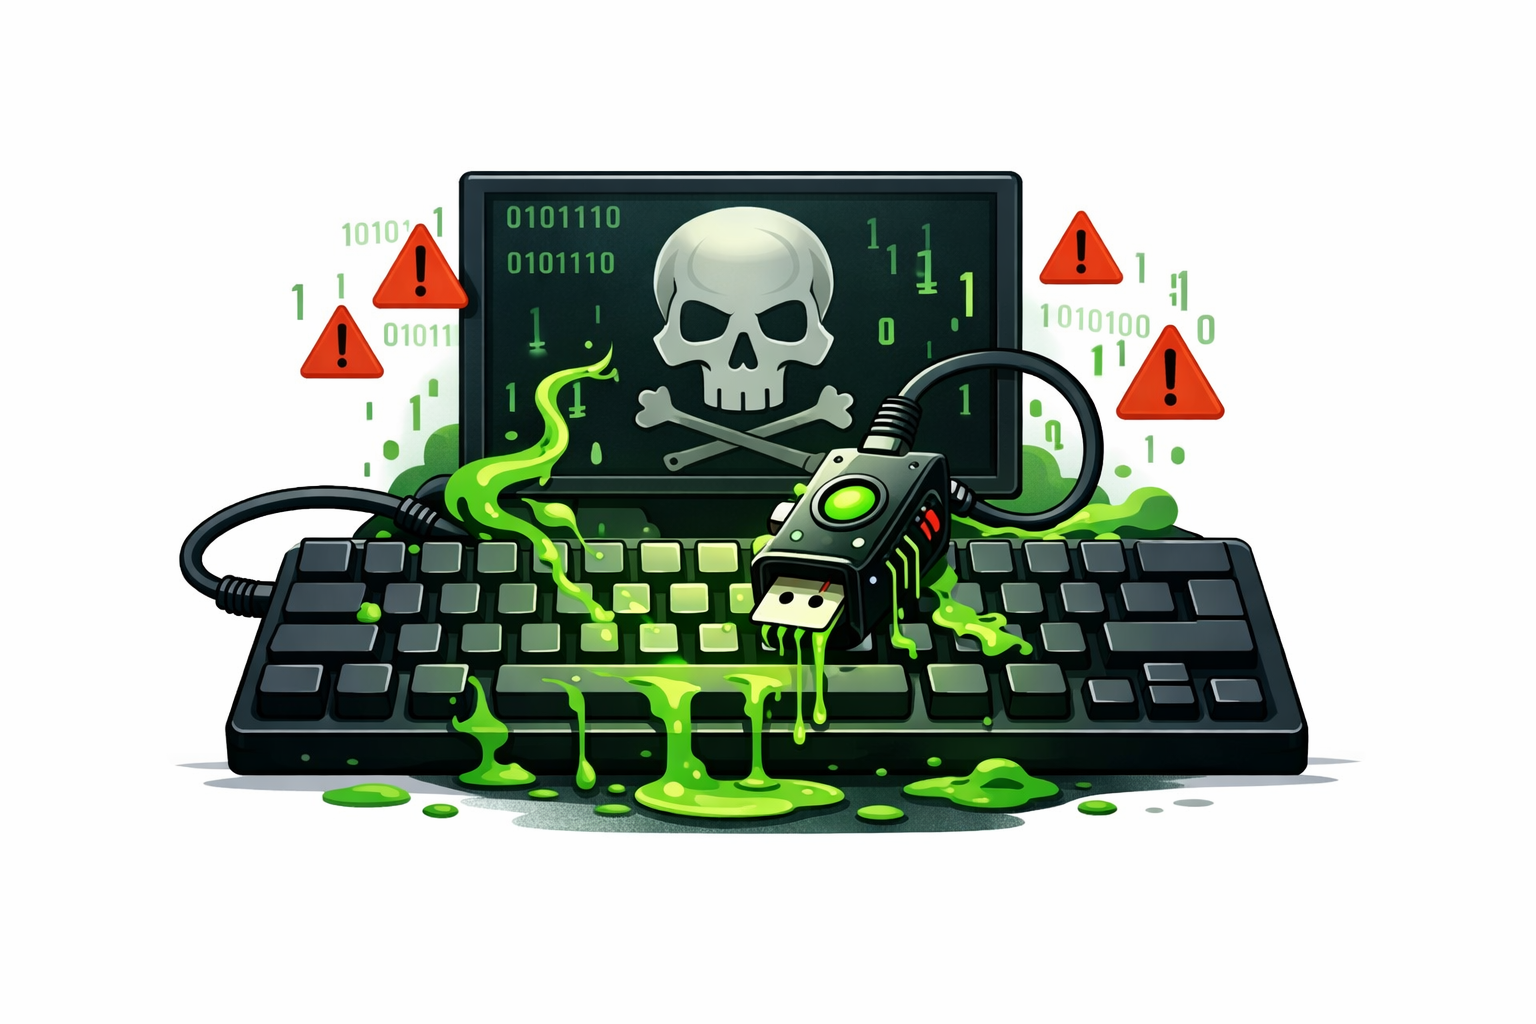
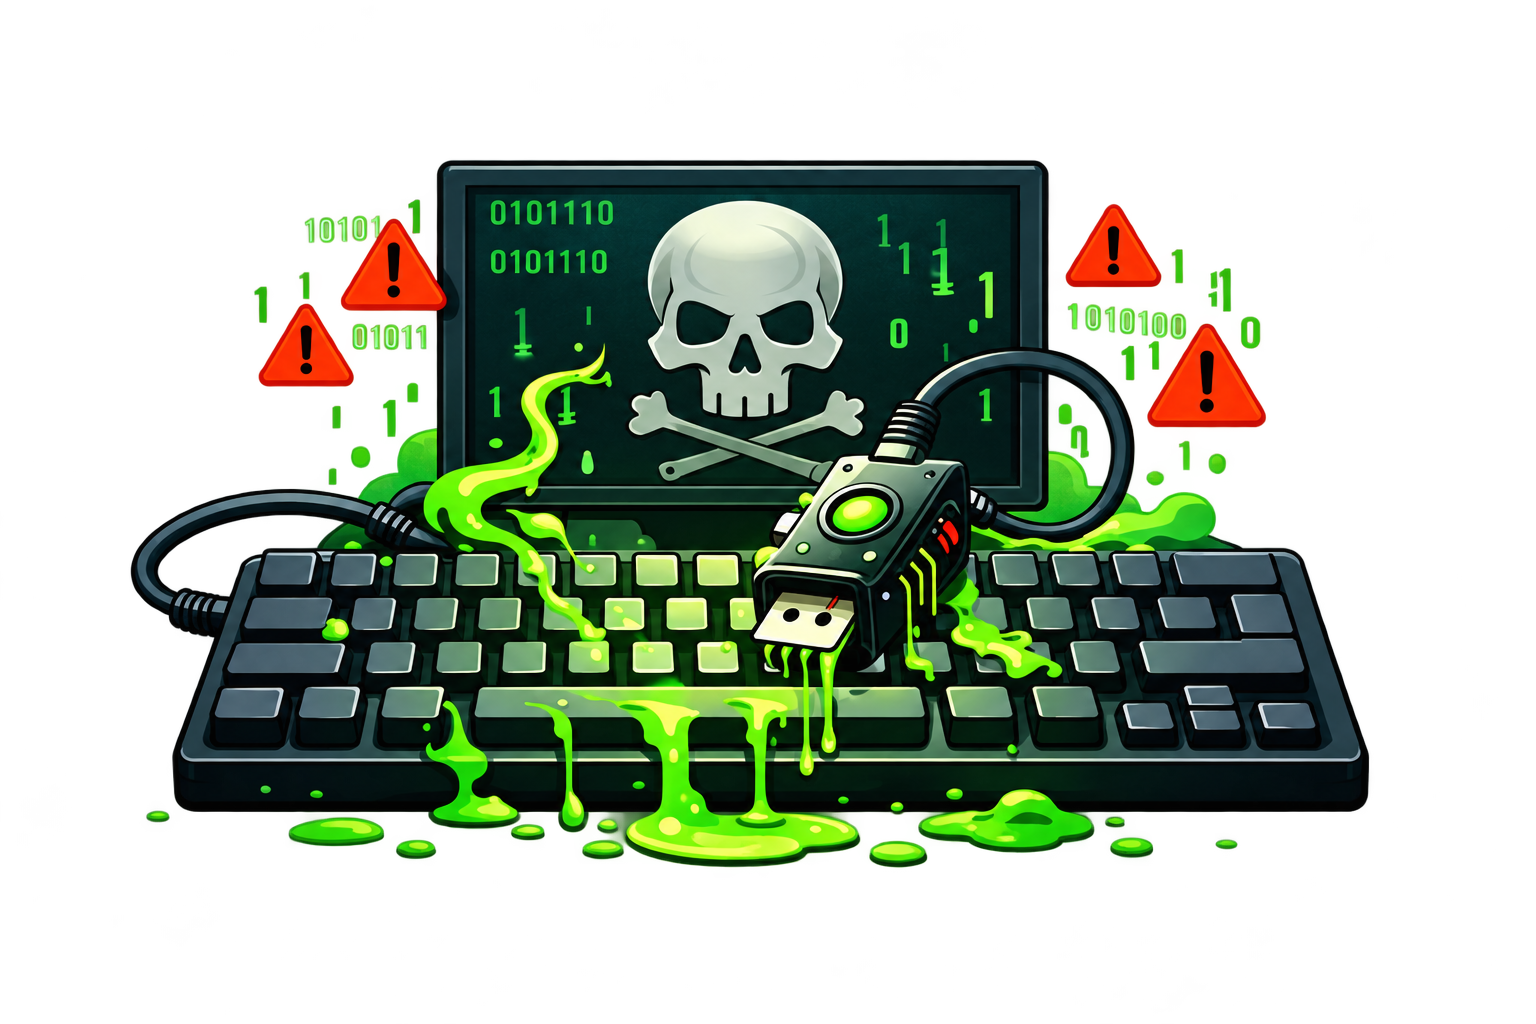
docs: add devcontainer-template project

Changed region(s): [[0.0625, 0.1562, 0.9062, 0.875]]

diff --git a/docs/assets/main.scss b/docs/assets/main.scss
@@ -1,0 +1,52 @@
+---
+---
+
+@import "minima";
+
+.project-separator {
+  margin: $spacing-unit 0;
+  border: 0;
+  border-top: 1px solid $grey-color-light;
+}
+
+.project-illustration {
+  --glow-color: rgba(14, 165, 233, 0.2);
+  position: relative;
+  isolation: isolate;
+}
+
+.project-illustration::before {
+  content: "";
+  position: absolute;
+  inset: -12px 0;
+  z-index: 0;
+  background: radial-gradient(ellipse, var(--glow-color), transparent 70%);
+  pointer-events: none;
+  opacity: 0;
+  transition: opacity 180ms ease;
+}
+
+@media (hover: hover) {
+  .project-illustration:hover::before {
+    opacity: 1;
+  }
+}
+
+@media (prefers-reduced-motion: reduce) {
+  .project-illustration::before {
+    transition: none;
+  }
+}
+
+.project-illustration img {
+  position: relative;
+  z-index: 1;
+}
+
+.project-illustration--obsidian {
+  --glow-color: rgba(124, 58, 237, 0.24);
+}
+
+.project-illustration--keyboard {
+  --glow-color: rgba(101, 163, 13, 0.2);
+}

diff --git a/README.md b/README.md
@@ -31,6 +31,10 @@ The source site lives in [`docs/`](./docs), and the recommended workflow is to u
 - Site source directory: `docs/`.
 - Build output directory: `docs/_site/`.
 - Browser tab icon: `docs/favicon.ico`, with matching source artwork in `docs/assets/favicon.svg`.
+- The Projects page includes Devcontainer Template, Personal Knowledge Management with Obsidian, and Keyboard Poisoning. Project artwork is stored in `docs/assets/`, with color-matched, hover-only glows (purple for Obsidian) defined in `docs/assets/main.scss` on top of Minima. Glow transitions respect reduced-motion preferences.
+- Project images sit above the hover glow without color blending.
+- Project entries are separated by thin, light grey horizontal rules.
+- The Obsidian and Keyboard Poisoning illustrations use transparent PNG backgrounds.
 - Publication status: local development is ready, and the repository now matches the GitHub Pages `/docs` publishing layout.
 
 ## Getting Started

diff --git a/AGENTS.md b/AGENTS.md
@@ -16,8 +16,12 @@ Keep in mind that:
 - The generated code must be minimal, avoid excesive helper functions and similar approaches
 
 ## Style
+- Separate project entries with `project-separator` horizontal rules, styled using Minima's spacing and light grey border color.
 - rubiotelmo0's portfolio must maintain a minimal and clean style
 - The used jekyll base-theme is `minima`
+- `docs/assets/main.scss` imports Minima and adds hover-only project illustration glows, with reduced-motion support. Apply `project-illustration` to the paragraph wrapping project artwork; color modifiers match individual illustrations (purple for Obsidian).
+- Keep project images above their glow layer without blend modes so artwork retains its original colors.
+- Preserve alpha transparency in the Obsidian and Keyboard Poisoning PNG illustrations so their backgrounds do not obscure the hover glows.
 
 ## Docs
 Find additional reliable information on:
